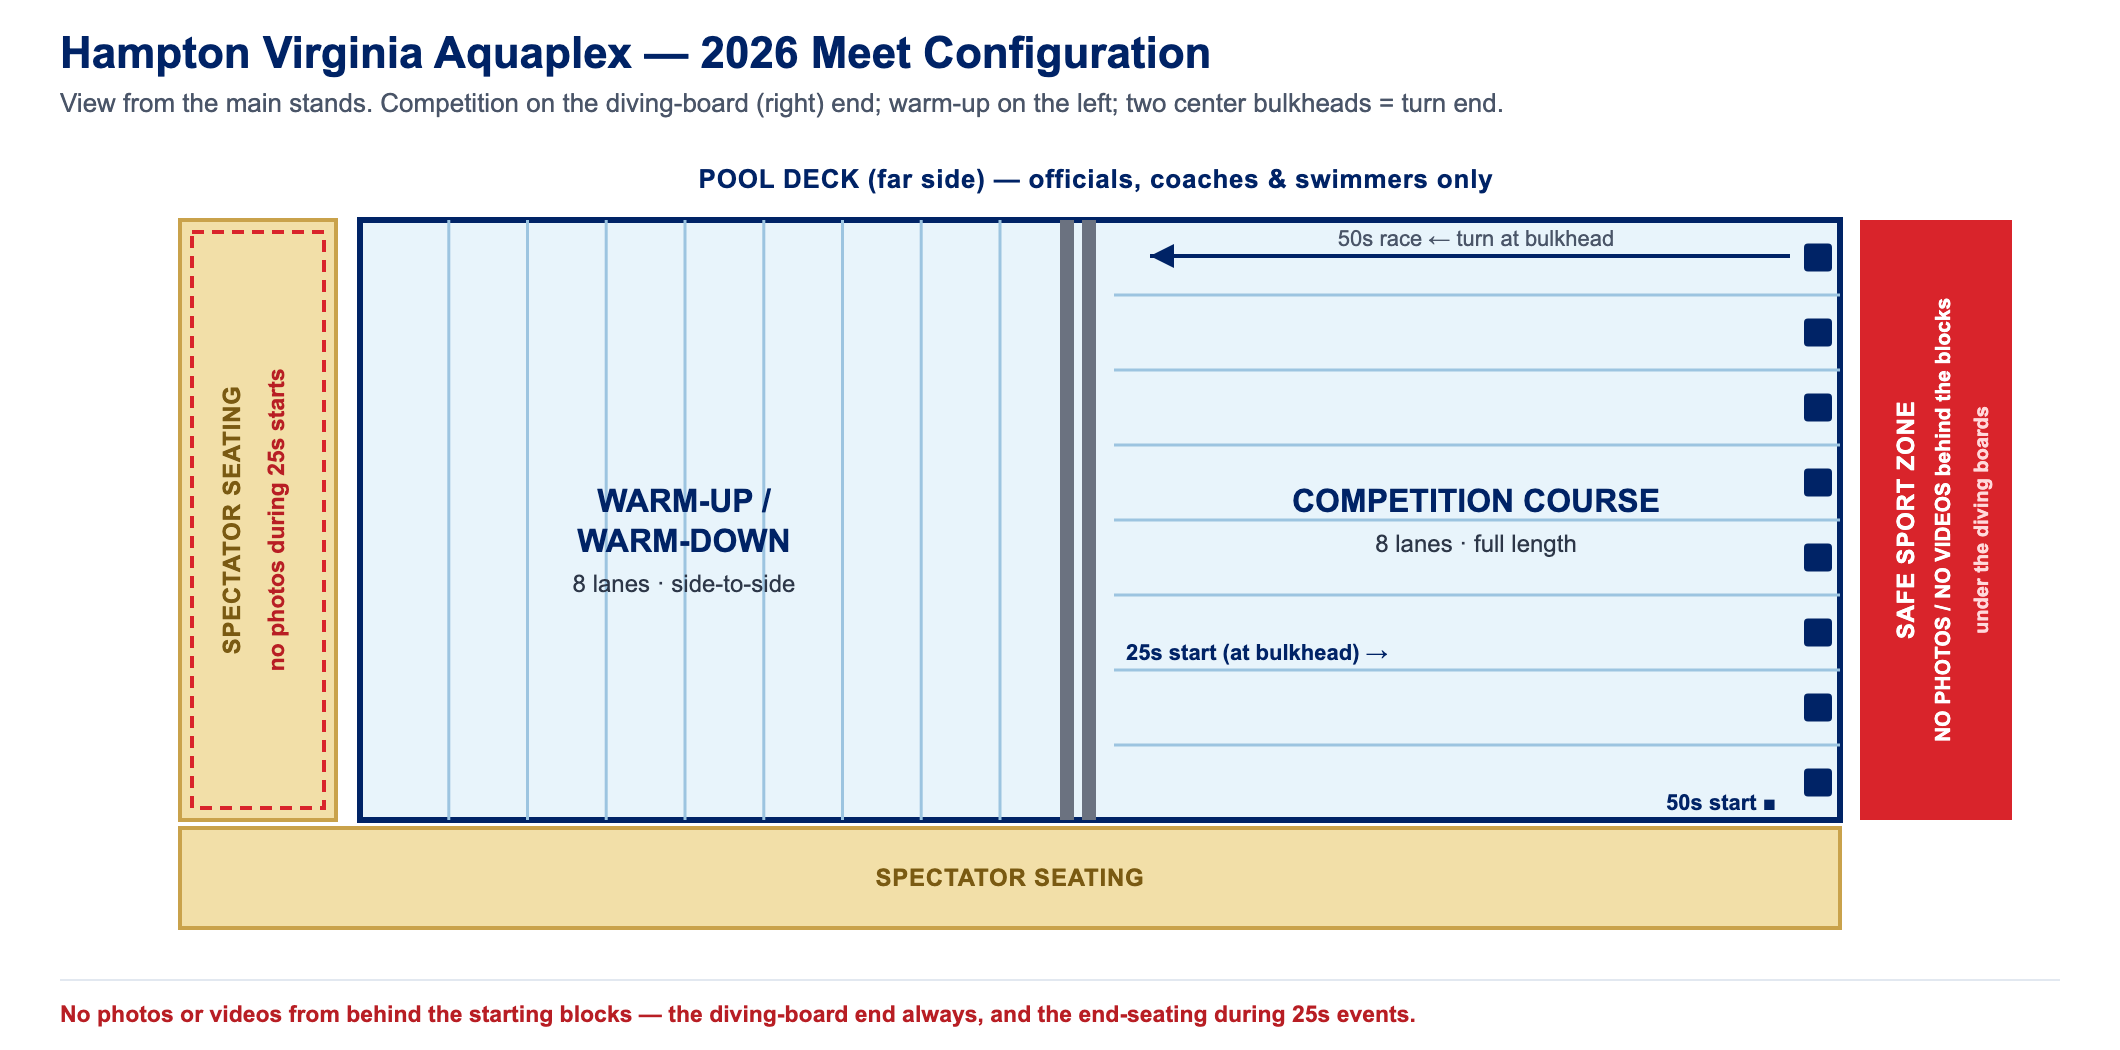
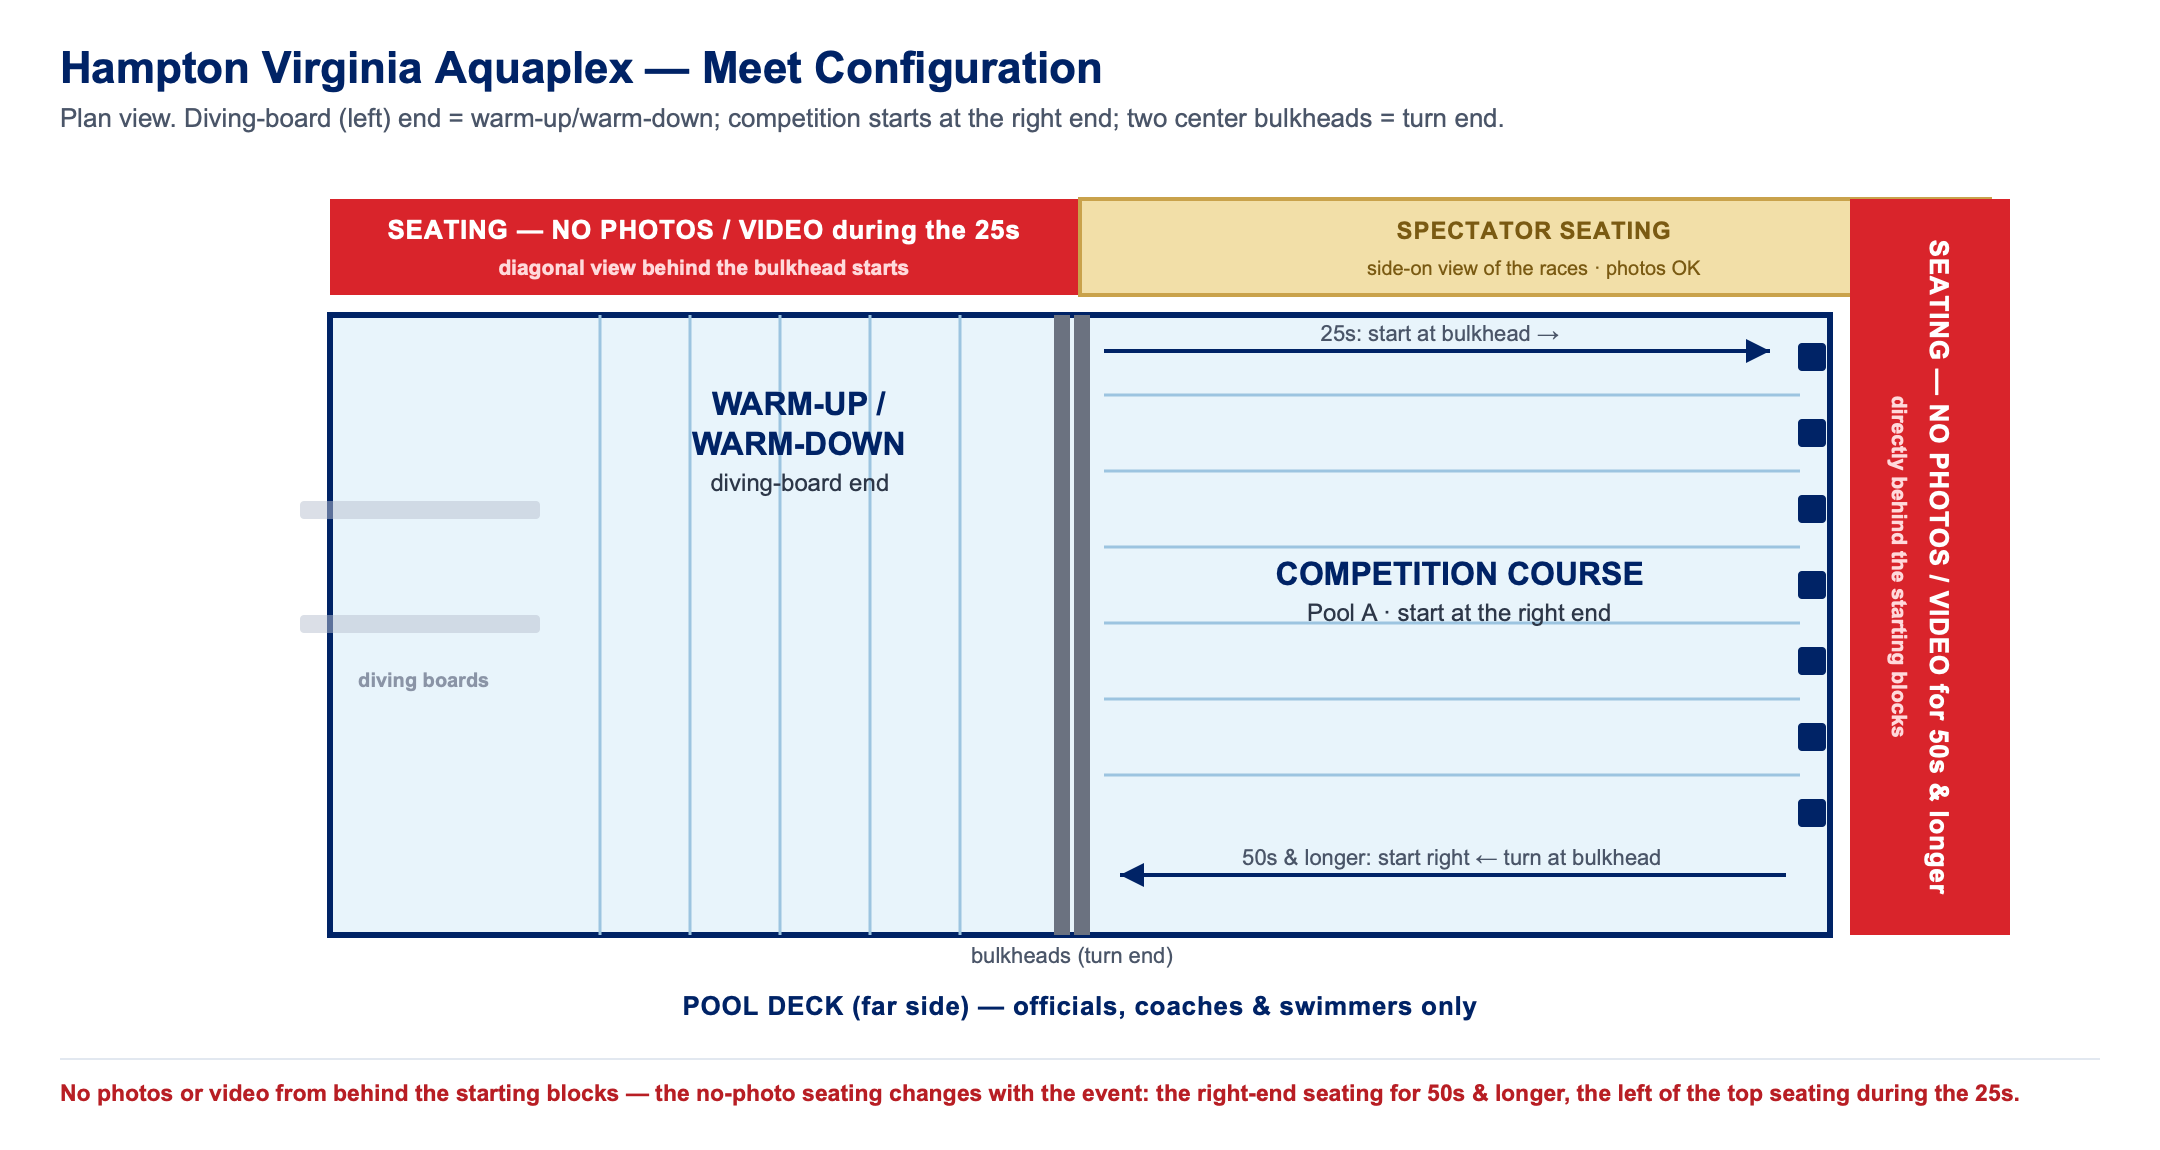
HVA guides: photography/Safe Sport no-photo zones + flipped course config
Add spectator-privacy coverage for the area behind the starting blocks to
the marshal and participant guides, and update the layout diagram for the
current (flipped) course.

- Marshal guide: new "Seating behind the blocks" post + posts-table row;
  no-photo enforcement, escalate to Safety Officer, don't touch devices.
- Participant guide: reworked Photos & videos and Spectator seating sections.
- Course flip: diving-board end is now warm-up/warm-down; competition starts
  at the opposite end. No-photo seating switches with the event —
  competition-end seating for 50s+, diving-end-side seating (diagonal to the
  bulkhead) during the 25s.
- Regenerate pool-layout.svg/.png to match.

Claude-Session: https://claude.ai/code/session_01JGHjtLDRFPK6oUY2n5AMdY

diff --git a/hva-marshal-guide.md b/hva-marshal-guide.md
@@ -1,7 +1,7 @@
 ---
 title: Hampton Virginia Aquaplex — Marshal Guide
 toc: true
-last_updated: July 11, 2026
+last_updated: July 26, 2026
 ---
 
 Marshals keep the [Summer Splash Invitational](summer-splash-invitational.md) and [City Meet](championship-meet.md) running safely and orderly at the Hampton Virginia Aquaplex (HVA). This guide is for volunteers assigned a marshal post at HVA. If you're attending as a spectator, see the [HVA Participant Guide](hva-participant-guide.md) instead.
@@ -52,6 +52,7 @@ Each group has a designated way into the pool. Part of marshaling is routing peo
 | Post | Boundary you protect | Core responsibility |
 | --- | --- | --- |
 | [Top of stairs](#top-of-stairs) | Spectator area ↔ pool deck | Credentialed persons & swimmers only |
+| [Seating behind the blocks](#seating-behind-the-blocks) | Competition-end seating (50s+) + diving-end-side seating (25s) | No photography or recording; protect swimmer privacy |
 | [Main entrance](#main-entrance) | Lobby ↔ pool deck | Credentialed persons & swimmers only |
 | [Locker rooms](#locker-rooms) | Outside hallway ↔ locker rooms | **NO ENTRY** |
 | [Wet deck hallway](#wet-deck-hallway) | Pool deck ↔ locker-room corridor | Athletes only in Locker Room, Coaches/Officials use Single Stall rooms |
@@ -64,6 +65,21 @@ Stationed in the pool area at the stairs between the **spectator seating and the
 - Allow only **credentialed persons** (coaches, officials, representatives) and **swimmers** down to the deck.
 - Keep spectators and family in the seating area. Parents who want to reach a swimmer should be directed to that swimmer's coach or GPSA Representative — they do not go onto the deck.
 - Do not let anyone linger on the stairs; keep the path clear for swimmers and officials moving between deck and seating.
+
+### Seating behind the blocks
+
+Just before each start, swimmers step onto the blocks and bend forward with their backs to whatever is behind them. Any seating that looks at those backs is a **no-photo zone** — it's a swimmer-privacy and Safe Sport rule, and holding it is the core of this post. Which seating that is **switches ends with the event** (see the [Participant Guide](hva-participant-guide.md#spectator-seating) for the layout):
+
+- **50s and longer** start at the **competition-end blocks** (the end opposite the diving boards). The **end-seating sits directly behind those blocks**, so it's a no-photo zone whenever swimmers are starting there — that's essentially every conventional event.
+- **25s** start at the **center bulkhead**, facing the competition end. That turns the swimmers' backs toward the **diving-board end**, and the **seating nearest that end has a diagonal sightline right behind the bulkhead starts** — so during the 25s that section becomes the no-photo zone instead.
+
+There is a no-photo seating zone for **every** start; it just switches ends depending on what's being swum.
+
+- **No photos or video of the swimmers on the blocks** from the seating behind them — phones, cameras, tablets, or any other device. This applies to everyone, **including parents recording their own child.**
+- **Know which zone is live.** For 50s and longer, watch the **end-seating behind the competition blocks**. For the 25s, watch the **seating nearest the diving-board end**, which catches the bulkhead starts on a diagonal.
+- Ask politely to lower any camera aimed at the blocks: "We don't allow photos or video from behind the blocks — it's a swimmer-privacy rule. You're welcome to take photos from the side."
+- Keep it simple and non-accusatory. Most people don't realize the angle is a concern and will put the camera away once you explain.
+- If someone won't cooperate, or something about the behavior concerns you, **contact the Meet Safety Officer right away.** Don't confront the person alone, and don't try to inspect or take anyone's device — that's for the Safety Officer and referee to handle.
 
 ### Main entrance
 

diff --git a/hva-participant-guide.md b/hva-participant-guide.md
@@ -40,21 +40,21 @@ Any concerns should be directed to your team's GPSA Representative.
 
 The elevated spectator seating wraps the pool in an **L-shape** — the full length of one long side, plus a section behind one end — and seats roughly 1,500. Seating is first-come, first-served — teams may not reserve large sections. Please be respectful of all families in attendance.
 
-For GPSA meets the pool is configured as shown below. The **competition course** runs along the **diving-board end**, the **warm-up / warm-down** lanes are on the opposite end, and two bulkheads across the middle serve as the turn end:
+For GPSA meets the pool is configured as shown below. The **competition course** runs along the end **opposite the diving boards**, the **warm-up / warm-down** lanes are on the **diving-board end**, and two bulkheads across the middle serve as the turn end:
 
-- **50s and longer** start at the diving-end blocks and turn at the center bulkhead.
-- **25s** start at the bulkhead and finish at the diving end.
+- **50s and longer** start at the competition-end blocks and turn at the center bulkhead.
+- **25s** start at the bulkhead and finish at the competition end.
 
-![HVA meet layout: competition course on the diving-board end, warm-up and warm-down on the opposite end, two center bulkheads as the turn end, spectator seating along the near side and behind the warm-up end, and the Safe Sport no-photo zone behind the starting blocks](assets/hva/pool-layout.png)
+![HVA meet layout: competition course on the end opposite the diving boards, warm-up and warm-down on the diving-board end, two center bulkheads as the turn end, spectator seating along the near side and behind the competition end, and the Safe Sport no-photo zones behind the competition blocks and — during the 25s — the seating nearest the diving-board end](assets/hva/pool-layout.png)
 
 ## Photos & videos
 
 Spectators are encouraged to take photos and videos during the meet. However:
 
-**NO photos or videos may be taken from behind the starting blocks.** For GPSA meets at this venue, that means:
+**NO photos or videos may be taken from behind the starting blocks.** For GPSA meets at this venue the starting end changes with the event, so the no-photo seating changes with it:
 
-- **The diving-board end, at all times** — the deck under the diving boards, behind the competition blocks (the Safe Sport zone).
-- **The end-seating during 25s** — because 25s start from the center bulkhead facing the diving end, that seating looks directly at the swimmers' backs at the start.
+- **The end-seating behind the competition blocks — for 50s and longer.** The competition course starts at the end opposite the diving boards, and this seating sits directly behind those blocks, looking straight at the swimmers' backs at the start.
+- **The seating nearest the diving-board end — during the 25s.** 25s start from the center bulkhead facing the competition end, which turns the swimmers' backs toward the diving-board end; that seating gets a diagonal view directly behind them.
 
 This rule is strictly enforced by meet staff and officials in both the deck area and the spectator area. Violators will be asked to stop and delete the offending content. Refusal may result in removal from the meet and a ban from future GPSA meets.
 
